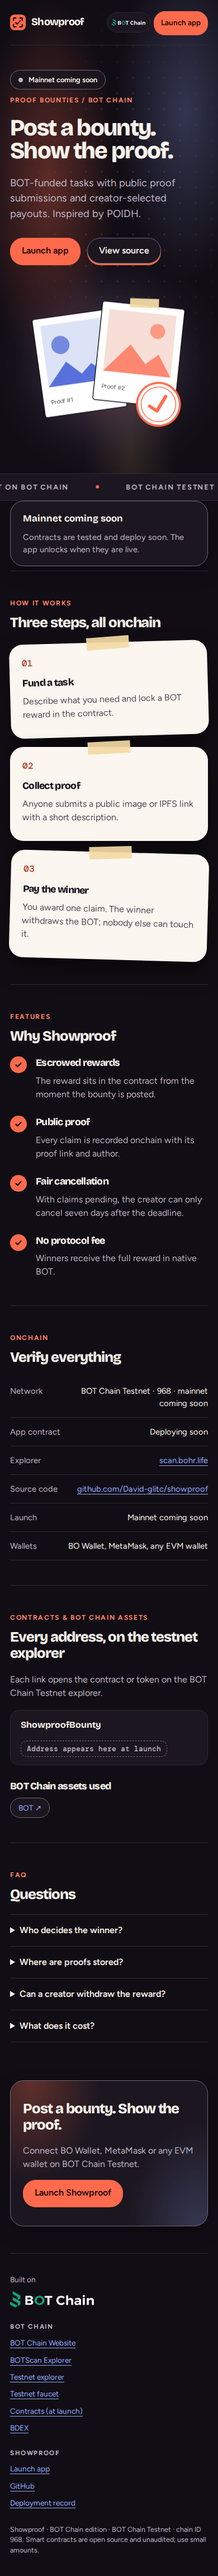
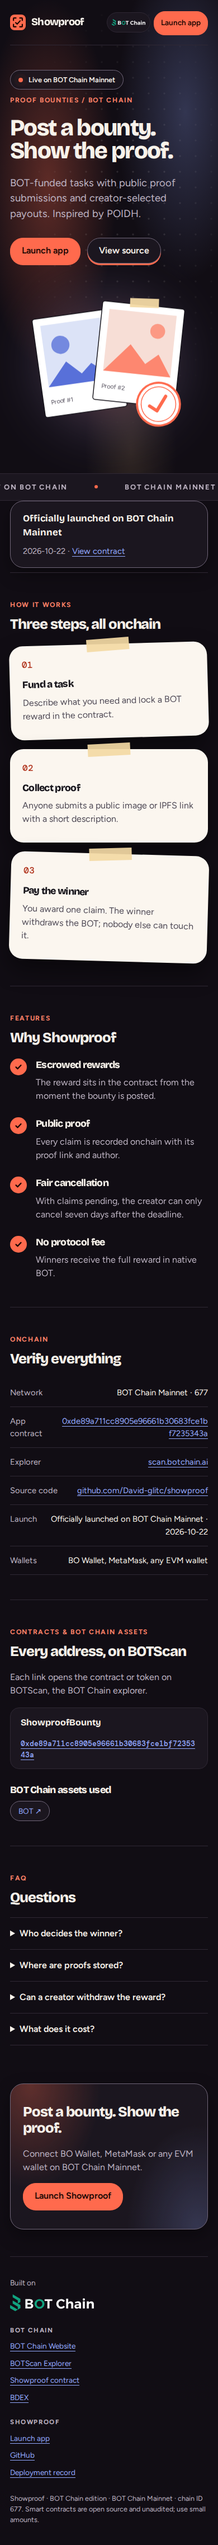
Officially launched on BOT Chain Mainnet

diff --git a/README.md b/README.md
@@ -2,7 +2,7 @@
 
 **Post a bounty. Show the proof.** BOT-funded tasks with public proof submissions and creator-selected payouts. Inspired by POIDH.
 
-**Status:** contracts are tested on a BOT Chain mainnet fork; the mainnet deployment is pending.
+**Officially launched on BOT Chain Mainnet** on 2026-10-22.
 
 - Website and app: https://showproofbot.vercel.app (app at [`/app/`](https://showproofbot.vercel.app/app/))
 - Network: BOT Chain mainnet, chain ID 677 · [BOT Chain](https://www.botchain.ai/) · [BOTScan](https://scan.botchain.ai/)
@@ -26,9 +26,9 @@
 
 | Contract | BOT Chain mainnet |
 |---|---|
-| `ShowproofBounty` | Pending mainnet deployment |
+| `ShowproofBounty` | [`0xde89a711cc8905e96661b30683fce1bf7235343a`](https://scan.botchain.ai/address/0xde89a711cc8905e96661b30683fce1bf7235343a) |
 
-BOT Chain infrastructure used: USDT `0x75edC9335175Fc0552D51D48439F229c10420fe3`, WBOT `0xD5452816194a3784dBa983426cCe7c122F4abd30`, BDEX router `0x07032d47A1b9f8460cBeE9dC17c1d3E438693929`, BDEX QuoterV2 `0x034A705b36067cff99ABf5C662Be881cBd8d0176`.
+BOT Chain infrastructure used: USDT `0xaBabc7Ddc03e501d190C676BF3d92ef0e6e87a3C`, WBOT `0xD5452816194a3784dBa983426cCe7c122F4abd30`, BDEX router `0x07032d47A1b9f8460cBeE9dC17c1d3E438693929`, BDEX QuoterV2 `0x034A705b36067cff99ABf5C662Be881cBd8d0176`.
 
 Source: [`contracts/src`](contracts/src). Tests: [`contracts/test`](contracts/test). The contracts are unaudited; use small amounts.
 
